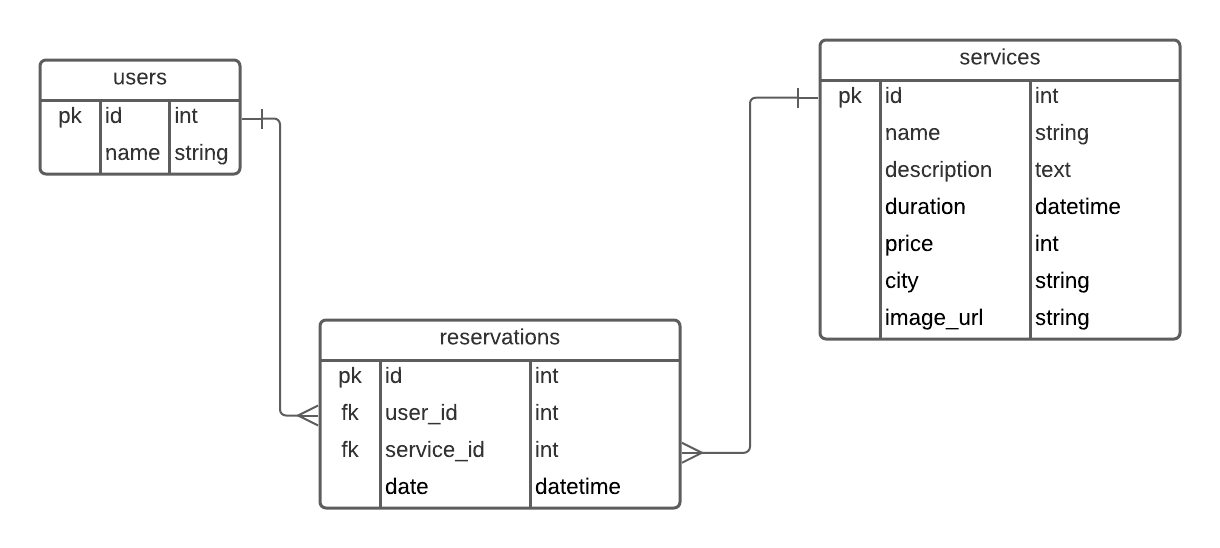
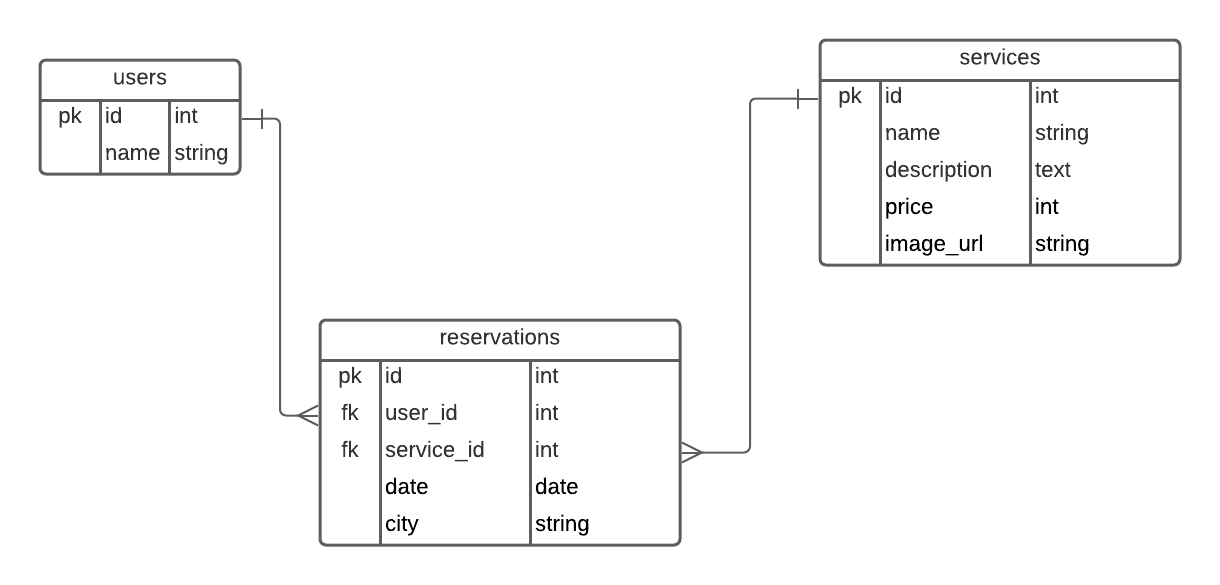
User, Reservation model and migrations

diff --git a/db/schema.rb b/db/schema.rb
@@ -15,6 +15,11 @@ ActiveRecord::Schema.define(version: 2021_11_19_155515) do
   # These are extensions that must be enabled in order to support this database
   enable_extension "plpgsql"
 
+  create_table "reservations", force: :cascade do |t|
+    t.datetime "created_at", precision: 6, null: false
+    t.datetime "updated_at", precision: 6, null: false
+  end
+
   create_table "services", force: :cascade do |t|
     t.string "name", null: false
     t.text "description", null: false
@@ -22,6 +27,12 @@ ActiveRecord::Schema.define(version: 2021_11_19_155515) do
     t.integer "price", null: false
     t.string "city", null: false
     t.string "image_url", null: false
+    t.datetime "created_at", precision: 6, null: false
+    t.datetime "updated_at", precision: 6, null: false
+  end
+
+  create_table "users", force: :cascade do |t|
+    t.string "name"
     t.datetime "created_at", precision: 6, null: false
     t.datetime "updated_at", precision: 6, null: false
   end

diff --git a/db/migrate/20211119163138_add_references_to_reservations.rb b/db/migrate/20211119163138_add_references_to_reservations.rb
@@ -1,0 +1,6 @@
+class AddReferencesToReservations < ActiveRecord::Migration[6.1]
+  def change
+    add_reference :reservations, :user, null: false, foreign_key: true
+    add_reference :reservations, :service, null: false, foreign_key: true
+  end
+end

diff --git a/app/models/user.rb b/app/models/user.rb
@@ -1,0 +1,6 @@
+class User < ApplicationRecord
+  validates :name, presence: true, length: { in: 4..20,
+    invalid_length: "%{count} should be between 4 and 20 characters" }
+
+    has_many :reservations
+end

diff --git a/db/migrate/20211119153143_create_users.rb b/db/migrate/20211119153143_create_users.rb
@@ -1,0 +1,9 @@
+class CreateUsers < ActiveRecord::Migration[6.1]
+  def change
+    create_table :users do |t|
+      t.string :name
+
+      t.timestamps
+    end
+  end
+end

diff --git a/db/migrate/20211119154932_create_reservations.rb b/db/migrate/20211119154932_create_reservations.rb
@@ -1,0 +1,8 @@
+class CreateReservations < ActiveRecord::Migration[6.1]
+  def change
+    create_table :reservations do |t|
+
+      t.timestamps
+    end
+  end
+end

diff --git a/app/models/reservation.rb b/app/models/reservation.rb
@@ -1,0 +1,6 @@
+class Reservation < ApplicationRecord
+  belongs_to :user
+
+  validates :date, presence: true
+  validates :city, presence: true
+end

diff --git a/db/migrate/20211119173228_add_city_to_reservations.rb b/db/migrate/20211119173228_add_city_to_reservations.rb
@@ -1,0 +1,5 @@
+class AddCityToReservations < ActiveRecord::Migration[6.1]
+  def change
+    add_column :reservations, :city, :string
+  end
+end

diff --git a/test/models/reservation_test.rb b/test/models/reservation_test.rb
@@ -1,0 +1,7 @@
+require "test_helper"
+
+class ReservationTest < ActiveSupport::TestCase
+  # test "the truth" do
+  #   assert true
+  # end
+end

diff --git a/test/models/user_test.rb b/test/models/user_test.rb
@@ -1,0 +1,7 @@
+require "test_helper"
+
+class UserTest < ActiveSupport::TestCase
+  # test "the truth" do
+  #   assert true
+  # end
+end
